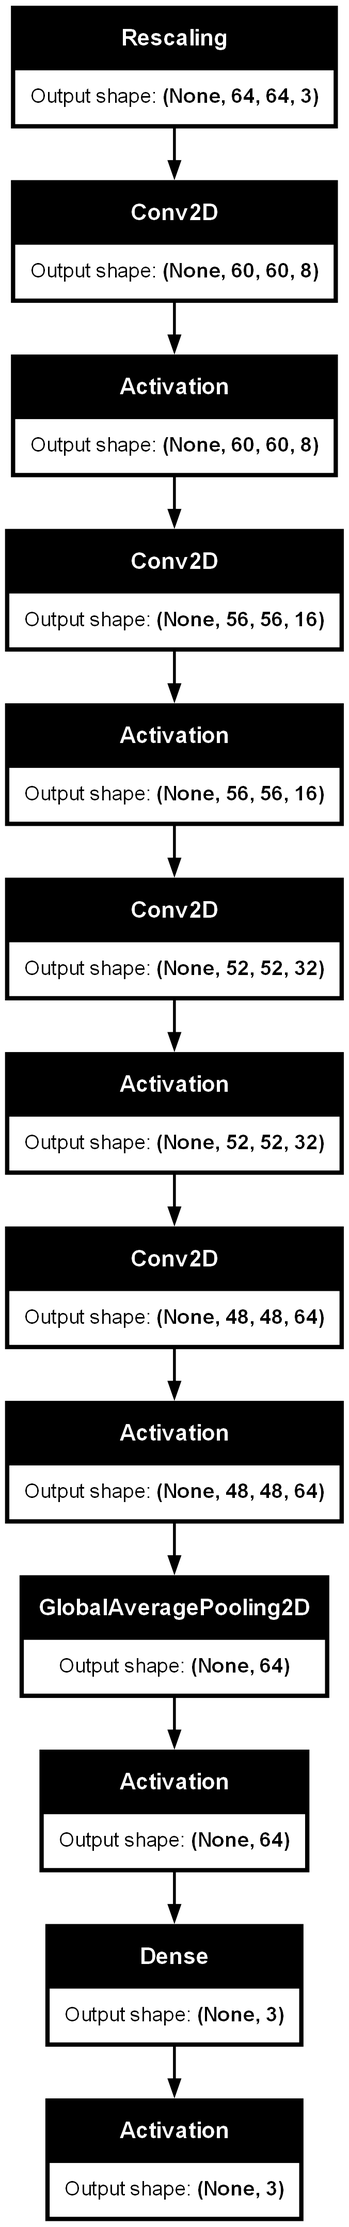
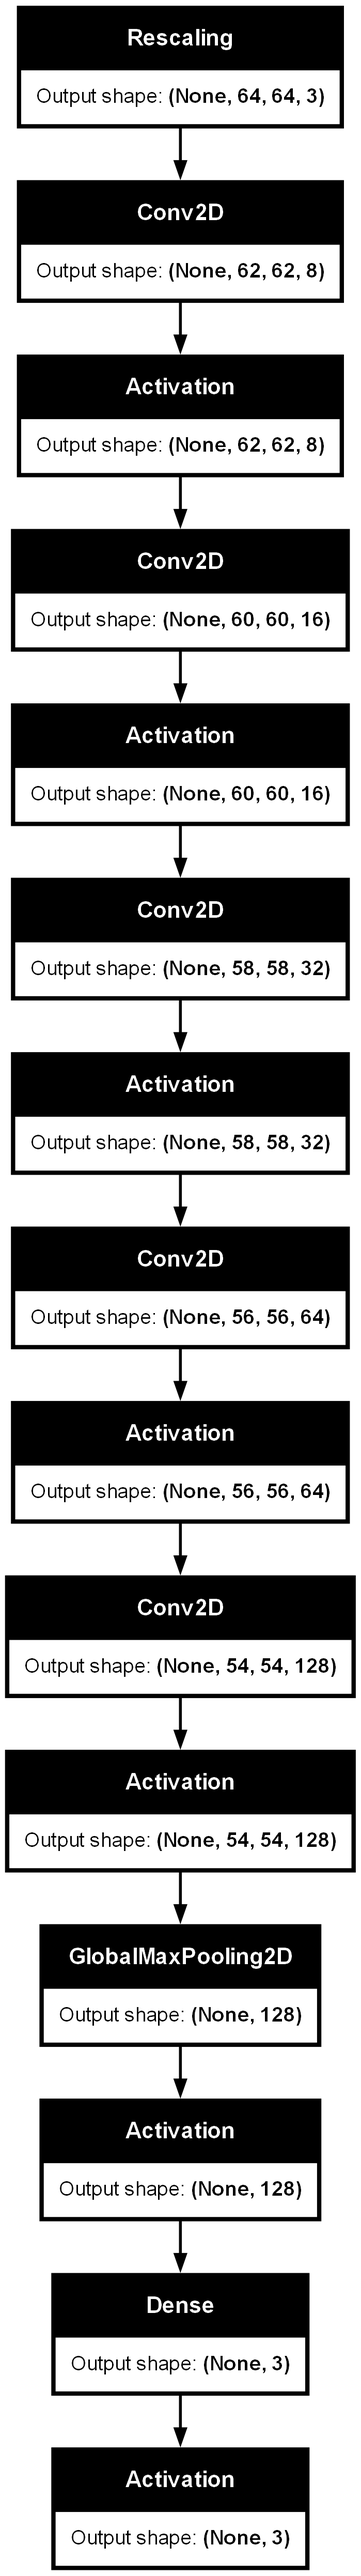
Progress

diff --git a/HairPrediction.py b/HairPrediction.py
@@ -73,23 +73,28 @@ model = Sequential()
 model.add(keras.Input(shape=image_size + (3,))) # 64, 64, 3
 model.add(layers.Rescaling(1.0 / 255))
 
-model.add(layers.Conv2D(filters=8, kernel_size=5, strides=1, padding='valid', dilation_rate=1))
+model.add(layers.Conv2D(filters=8, kernel_size=3, strides=1, padding='valid', dilation_rate=1))
 model.add(layers.Activation("relu"))
 layers.MaxPool2D(pool_size=(2, 2))
 
-model.add(layers.Conv2D(filters=16, kernel_size=5, strides=1, padding='valid', dilation_rate=1))
+model.add(layers.Conv2D(filters=16, kernel_size=3, strides=1, padding='valid', dilation_rate=1))
 model.add(layers.Activation("relu"))
 layers.MaxPool2D(pool_size=(2, 2))
 
-model.add(layers.Conv2D(filters=32, kernel_size=5, strides=1, padding='valid', dilation_rate=1))
+model.add(layers.Conv2D(filters=32, kernel_size=3, strides=1, padding='valid', dilation_rate=1))
 model.add(layers.Activation("relu"))
 layers.MaxPool2D(pool_size=(2, 2))
 
-model.add(layers.Conv2D(filters=64, kernel_size=5, strides=1, padding='valid', dilation_rate=1))
+model.add(layers.Conv2D(filters=64, kernel_size=3, strides=1, padding='valid', dilation_rate=1))
 model.add(layers.Activation("relu"))
 layers.MaxPool2D(pool_size=(2, 2))
 
-model.add(layers.GlobalAveragePooling2D())
+model.add(layers.Conv2D(filters=128, kernel_size=3, strides=1, padding='valid', dilation_rate=1))
+model.add(layers.Activation("relu"))
+layers.MaxPool2D(pool_size=(2, 2))
+
+#model.add(layers.GlobalAveragePooling2D())
+model.add(layers.GlobalMaxPool2D())
 model.add(layers.Activation("relu"))
 model.add(layers.Dense(3))
 # model.add(layers.Activation("softmax"))
@@ -97,15 +102,15 @@ model.add(layers.Activation("softmax"))
 tf.keras.utils.plot_model(model, to_file='model_test.png', show_shapes=True)
 
 # epochs = 1
-# epochs = 50
-epochs = 25
+# epochs = 75
+# epochs = 25
 # epochs = 16
 # epochs = 18
 # epochs = 20
-
+epochs = 50
 model.compile(
-    optimizer=keras.optimizers.Adam(1e-3),
-    # optimizer=keras.optimizers.RMSprop(1e-3),
+    # optimizer=keras.optimizers.Adam(1e-3),
+    optimizer=keras.optimizers.RMSprop(1e-3),
     loss="categorical_crossentropy",
     metrics=["accuracy", "precision", "categorical_accuracy"],
 )
@@ -264,8 +269,8 @@ import matplotlib.pyplot as plt
 
 def plot_history(history):
     # Plotting the training history
-    plt.figure(figsize=(12, 5))
 
+    plt.figure(figsize=(12, 5))
     # Plot accuracy
     plt.subplot(1, 2, 1)
     plt.plot(history.history['accuracy'], label='Training Accuracy')

diff --git a/ForDocument.md b/ForDocument.md
@@ -261,3 +261,53 @@ Recall: 0.37755102040816324
 F1 Score: 0.36219608869760955
 
 **5x5 but with 25 Epochs**
+
+Accuracy: 0.3163265306122449
+Precision: 0.3301237959298552
+Recall: 0.3163265306122449
+F1 Score: 0.30229572890664674
+
+### Application of GlobalMaxPooling2D
+
+Accuracy: 0.3520408163265306
+Precision: 0.3453050634173083
+Recall: 0.3520408163265306
+F1 Score: 0.3370696316355063
+
+Accuracy: 0.32142857142857145
+Precision: 0.3277438248026483
+Recall: 0.32142857142857145
+F1 Score: 0.3066358427607462
+
+**25 Epochs**
+
+Accuracy: 0.336734693877551
+Precision: 0.32507726009859544
+Recall: 0.336734693877551
+F1 Score: 0.3153468279844453
+
+**50 Epochs**
+Accuracy: 0.3877551020408163
+Precision: 0.40763033520662895
+Recall: 0.3877551020408163
+F1 Score: 0.378348684606586
+
+**75 Epochs**
+
+
+**50 Epochs with extra layer**
+
+### The Value of the filter is switched 
+
+**Increasing 8 16 32 64**
+Accuracy: 0.3979591836734694
+Precision: 0.3864960877968209
+Recall: 0.3979591836734694
+F1 Score: 0.38573328651766564
+
+**Decreasing 64 32 16 8**
+
+Accuracy: 0.3520408163265306
+Precision: 0.41192419825072885
+Recall: 0.3520408163265306
+F1 Score: 0.34247525544386564
